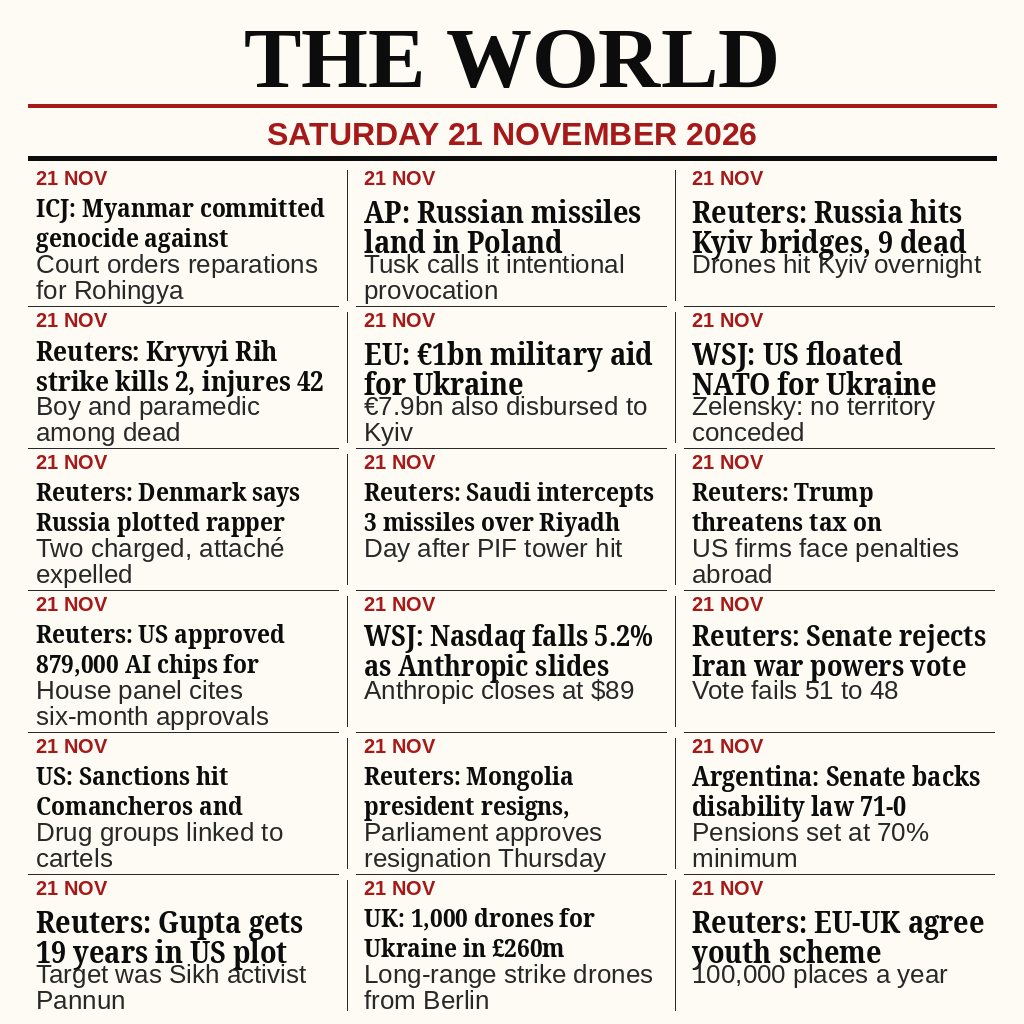
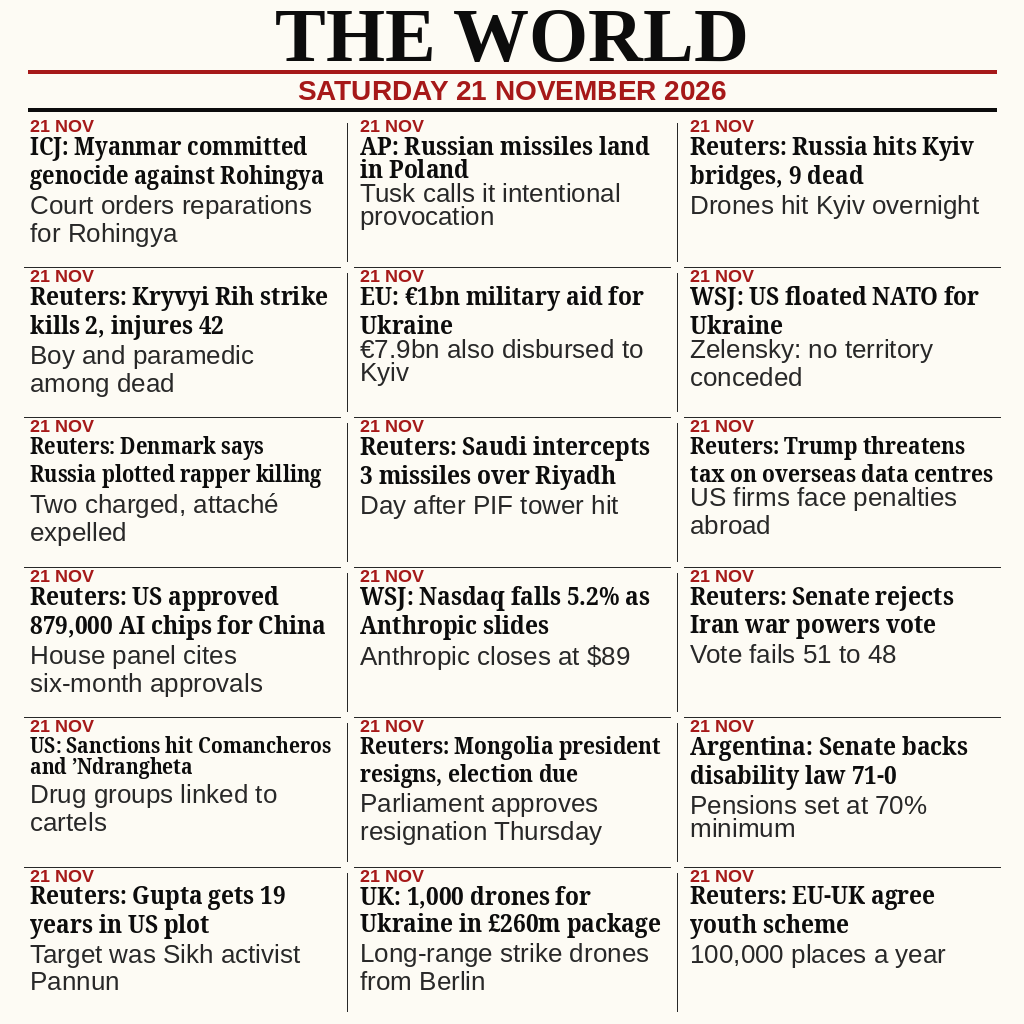
Fix layout: ink-placed lines, complete headlines, no overlaps
- Place every text line by measured ink bounds (draw_ink) instead of
  fixed 30/26px steps: the old steps were smaller than the fitted
  fonts' ascent+descent, so decks collided with headline descenders
  in most cells (stories 3, 16, 18 worst).
- fit_headline now caps at 26px and floors at 22px: at 31-26px seven
  headlines wrapped to 3 lines and were silently truncated by [:2]
  ('Rohingya', 'overseas data centres', 'China', 'killing',
  'package' dropped). All 18 headlines now render complete in 2 lines.
- Masthead compressed (title 76, date 28) -> grid_top 117, row_h 150.
- In-code assertions: headline/deck <= 2 lines, cell content fits row.
- Verified: all 18 cells inspected at 2x, zero overlaps; two runs
  byte-identical.

Changed region(s): [[0.0312, 0.0, 0.9688, 1.0]]

diff --git a/gen.py b/gen.py
@@ -84,65 +84,93 @@ def wrap(draw, text, fnt, max_w):
 
 
 def fit_headline(draw, text, max_w, max_lines=2):
-    """Largest headline size (31 down to 26) that wraps into max_lines."""
-    for size in range(31, 25, -1):
+    """Largest headline size (26 down to 22) that wraps into max_lines.
+
+    22 is the floor: at text_w 304 every story fits in two lines at 22.
+    Sizes below that would put headlines far under the 26px decks.
+    """
+    for size in range(26, 21, -1):
         fnt = font(SERIF_COND_BOLD, size)
         lines = wrap(draw, text, fnt, max_w)
         if len(lines) <= max_lines:
             return fnt, lines, size
-    fnt = font(SERIF_COND_BOLD, 26)
-    return fnt, wrap(draw, text, fnt, max_w), 26
+    fnt = font(SERIF_COND_BOLD, 22)
+    return fnt, wrap(draw, text, fnt, max_w), 22
+
+
+def draw_ink(draw, x, ink_top, text, fnt, fill):
+    """Draw text with its ink top at ink_top (not the em-box top).
+
+    PIL places text by the em box, whose ascent+descent padding is what
+    caused deck/headline collisions when lines were stepped by fixed
+    amounts. Placing by measured ink bounds gives exact, gap-controlled
+    spacing. Returns the ink height of the drawn text.
+    """
+    b = draw.textbbox((0, 0), text, font=fnt)
+    draw.text((x - b[0], ink_top - b[1]), text, font=fnt, fill=fill)
+    return b[3] - b[1]
 
 
 def main():
     img = Image.new("RGB", (W, H), PAPER)
     d = ImageDraw.Draw(img)
 
-    # --- masthead ---
-    title_f = font(SERIF_BOLD, 86)
+    # --- masthead (ink-placed, metric-driven) ---
+    title_f = font(SERIF_BOLD, 76)
     title = "THE WORLD"
     tw = d.textlength(title, font=title_f)
-    d.text(((W - tw) / 2, 10), title, font=title_f, fill=INK)
-    d.rectangle([28, 104, W - 28, 107], fill=RED)
-    date_f = font(SANS_BOLD, 32)
+    tb = d.textbbox((0, 0), title, font=title_f)
+    d.text(((W - tw) / 2 - tb[0], 10 - tb[1]), title, font=title_f, fill=INK)
+    title_bottom = 10 + (tb[3] - tb[1])
+    d.rectangle([28, title_bottom + 8, W - 28, title_bottom + 11], fill=RED)
+    date_f = font(SANS_BOLD, 28)
     date = "SATURDAY 21 NOVEMBER 2026"
     dw = d.textlength(date, font=date_f)
-    d.text(((W - dw) / 2, 116), date, font=date_f, fill=RED)
-    d.rectangle([28, 156, W - 28, 160], fill=INK)
+    db = d.textbbox((0, 0), date, font=date_f)
+    date_top = title_bottom + 19
+    d.text(((W - dw) / 2 - db[0], date_top - db[1]), date, font=date_f, fill=RED)
+    date_bottom = date_top + (db[3] - db[1])
+    d.rectangle([28, date_bottom + 8, W - 28, date_bottom + 11], fill=INK)
 
     # --- story grid: 3 columns x 6 rows ---
-    margin = 28
-    gutter = 18
+    margin = 24
+    gutter = 14
     col_w = (W - 2 * margin - 2 * gutter) // 3
-    grid_top = 164
-    grid_bottom = 1016
+    grid_top = date_bottom + 17
+    grid_bottom = 1020
     row_h = (grid_bottom - grid_top) // 6
-    kicker_f = font(SANS_BOLD, 20)
+    kicker_f = font(SANS_BOLD, 18)
     deck_f = font(SANS, 26)
+    print("masthead: title_bottom", title_bottom, "date_bottom", date_bottom,
+          "grid_top", grid_top, "row_h", row_h)
 
     for idx, (headline, deck) in enumerate(STORIES):
         col = idx % 3
         row = idx // 3
         x0 = margin + col * (col_w + gutter)
         y0 = grid_top + row * row_h
-        pad = 8
+        pad = 6
         tx = x0 + pad
         text_w = col_w - 2 * pad
-        y = y0 + 2
+        y = y0 + 3
 
-        # kicker
-        d.text((tx, y), "21 NOV", font=kicker_f, fill=RED)
-        y += 23
-        # headline, fitted to two lines
-        hf, hlines, _hsize = fit_headline(d, headline, text_w)
-        for line in hlines[:2]:
-            d.text((tx, y), line, font=hf, fill=INK)
-            y += 30
+        # kicker (18px, caps/digits only, no descenders)
+        y += draw_ink(d, tx, y, "21 NOV", kicker_f, RED) + 4
+        # headline, fitted to two lines, complete -- never truncated
+        hf, hlines, hsize = fit_headline(d, headline, text_w)
+        assert len(hlines) <= 2, f"headline {idx+1} needs {len(hlines)} lines"
+        for line in hlines:
+            y += draw_ink(d, tx, y, line, hf, INK) + 4
+        y += 1  # extra gap before the deck
         # deck, 26px, at most two lines
         dlines = wrap(d, deck, deck_f, text_w)
-        for line in dlines[:2]:
-            d.text((tx, y), line, font=deck_f, fill=(40, 40, 40))
-            y += 26
+        assert len(dlines) <= 2, f"deck {idx+1} needs {len(dlines)} lines"
+        for line in dlines:
+            y += draw_ink(d, tx, y, line, deck_f, (40, 40, 40)) + 4
+        content_h = y - 4 - y0
+        assert content_h <= row_h - 4, f"cell {idx+1} overflow: {content_h} > {row_h - 4}"
+        print(f"cell {idx+1:2d} headline {hsize}px {len(hlines)} lines,"
+              f" deck {len(dlines)} lines, content {content_h}px / {row_h}px")
 
         # vertical divider (not after last column)
         if col < 2:
